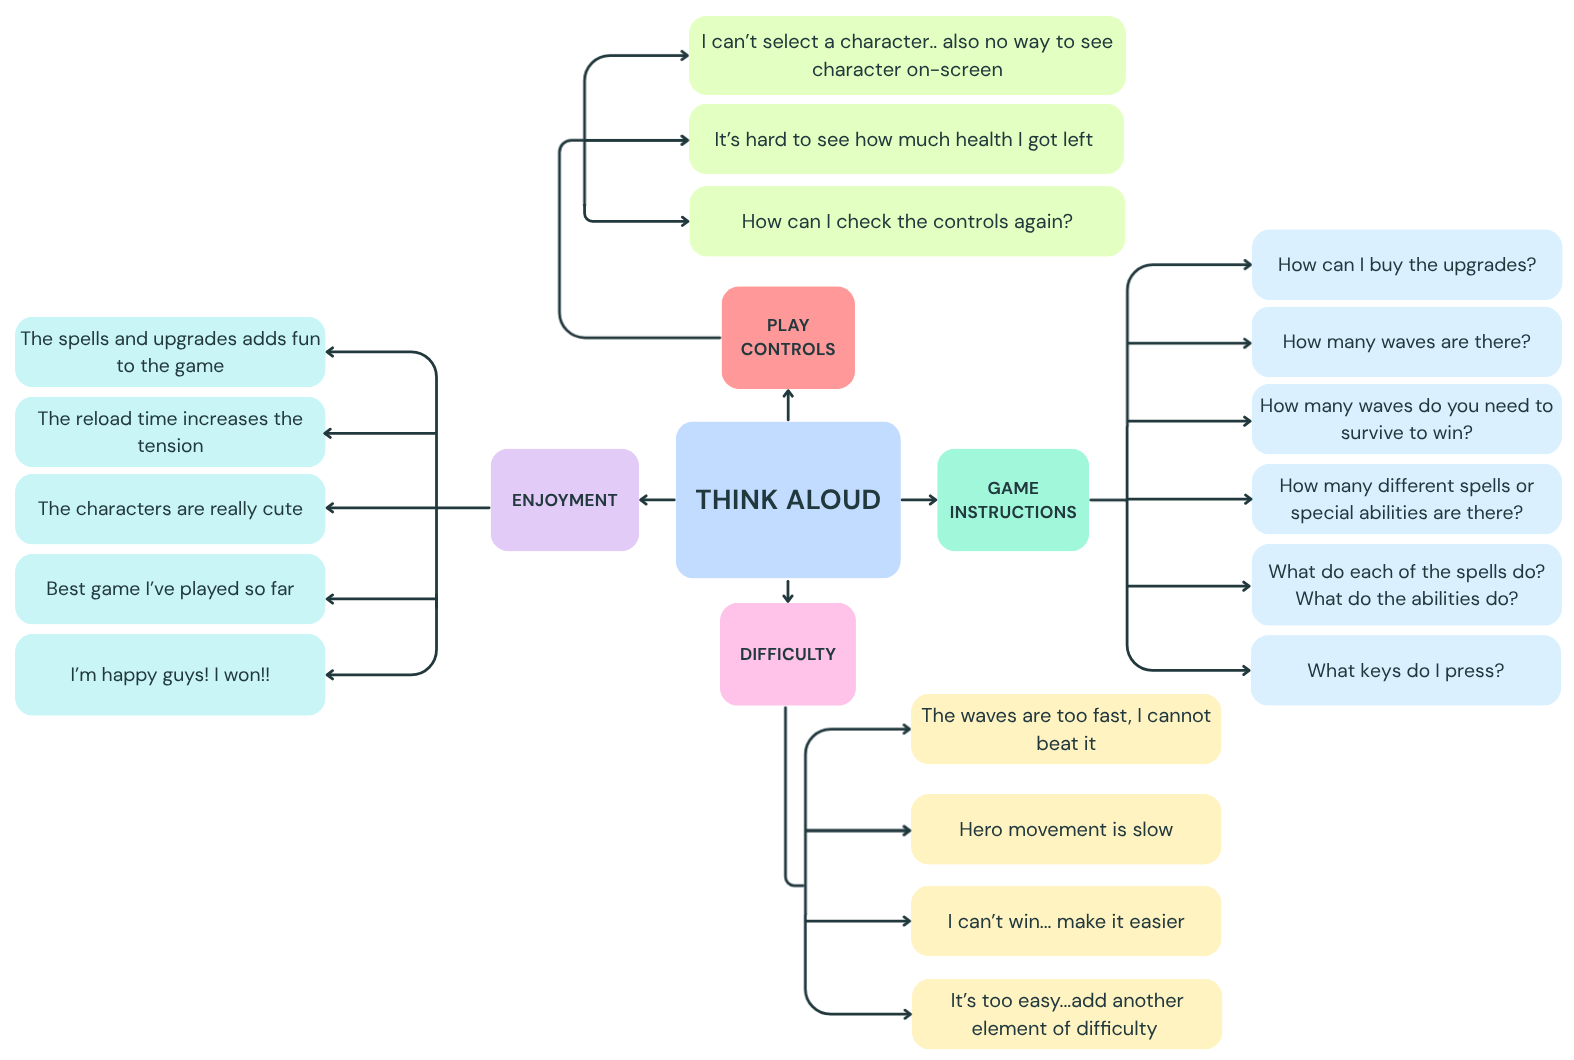
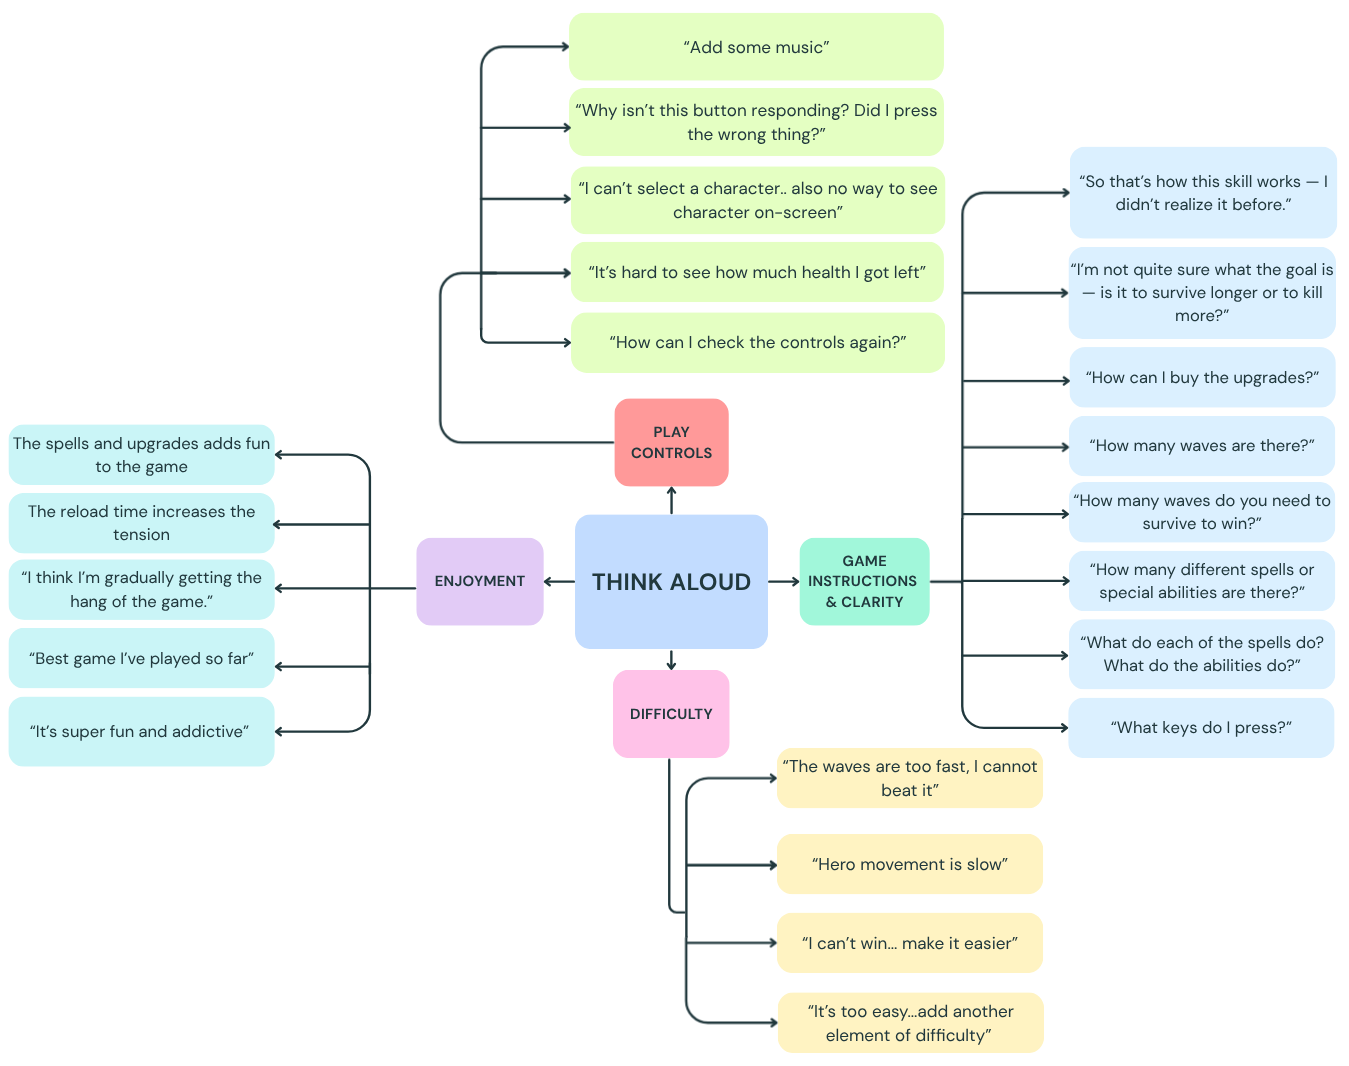
updated Qualitative Evaluation section

Changed region(s): [[0.0, 0.0, 0.9963, 0.9962]]

diff --git a/README.md b/README.md
@@ -374,12 +374,42 @@ In the game logic section, GameManager creates an event emitter to implement an 
 
 
 
-### Evaluation
+## 5. Evaluation
 
-- 15% ~750 words
+This week, we invited other team members to try out the newly released version of our game. The overall gameplay response was largely positive, though a few issues were flagged along with a number of helpful suggestions and ideas shared throughout the session. The feedback gathered proved to be invaluable in helping us to better understand how players interact with the game and where improvements can be made. To obtain a well-rounded understanding of our game, we conducted several evaluation methods, including **Think Aloud Evaluation**, **NASA-TLX for workload assessment**, and the **System Usability Scale (SUS)**. These methods allowed us to assess different dimensions of the player experience, from usability and cognitive workload to overall satisfaction and interface design. 
 
-- One qualitative evaluation (of your choice) 
+### 5a. Qualitative Evaluation
 
+**Think Aloud Evaluation:**
+
+![Think Aloud Diagram](images/ThinkAloud.png)
+<div align="center">
+
+*Figure 1*  
+Summary of Think Aloud Evaluation
+
+</div>
+
+**Methodology:**
+
+A group of 6 participants (**N = 6**), made up of friends and classmates with differing levels of gaming experience, took part in the session and were asked to play the game for around 10-15 minutes. Throughout the gameplay, they were encouraged to verbalise their thoughts and reactions as they occurred, providing realtime commentary on their experience. With their permission, responses were captured using audio recordings, enabling us to analyse the feedback and draw out a number of recurring themes, with a particular focus on instances of confusion and engagement. These were then organised into a Thematic Map to aid visualisation (see above Figure 1). The table below addresses each of the key focus areas identified from the mind map in turn.
+
+**Key Observations and Reactions:**
+
+| Focus Area | Issue Identified | Solution |
+|---|---|---|
+| **Player Control** | 1. Lack of health and mana indicators. <br> 2. Current status of each skill, including remaining cooldown times, is unclear.  | 1. Health and mana bars added to the bottom of the screen. <br> 2. Cooldown indicators made more prominent and easier to read. <br> 3. Enemy health now displayed above each enemy. |
+| **Game Instructions & Clarity** | 1. The absence of an instruction page makes it challenging for players to familiarise themselves with the game's controls, spells, hero mechanics, and other core elements. <br> 2. Players feel buttons are not responsive <br> 3. Lack of information on the objective/goal <br> 4. Unaware of how skill works| 1. Add an instruction page accessible by pressing "Esc". <br> 2. Introduced a tutorial screen that players must read through before proceeding, ensuring that they have a thorough understanding of the game's core mechanics and objectives prior to gameplay. <br> 3. Add a clearer skill-cooldown indicator in the bottom-right corner. <br> 4. Real-time feedback to clarify objectives. <br> 5. Enabled tooltip-on-hover in the skill shop.|
+| **Difficulty** | 1. Game offers no difficulty settings. <br> 2. Enemy waves progress at a pace that many players found overwhelming. | 1. Add difficulty options, giving players the ability to choose between Easy, Medium, and Hard before beginning the game. |
+| **Player Movement & Sounds** | 1. Movement felt sluggish <br> 2. Add music to the main game not just the Front-end| 1. Adjusted the hero's movement speed values. <br> 2. Added music|
+
+**Outcome:**
+
+The implemented improvements showed clear results during follow-up testing, with players demonstrating greater confidence and notably less confusion while navigating the game. Usability and overall gameplay experience were meaningfully enhanced as a result. The Think-Aloud method also provided deeper insight into player concerns, helping the team address issues more effectively. However, we remain mindful that social desirability bias may have influenced some participants responses.
+
+
+### 5b. Quantitative Evaluation
+**NASA Task Load Index (NASA-TLX) and System Usability Survey (SUS)**
 - One quantitative evaluation (of your choice) 
 
 - Description of how code was tested. 
